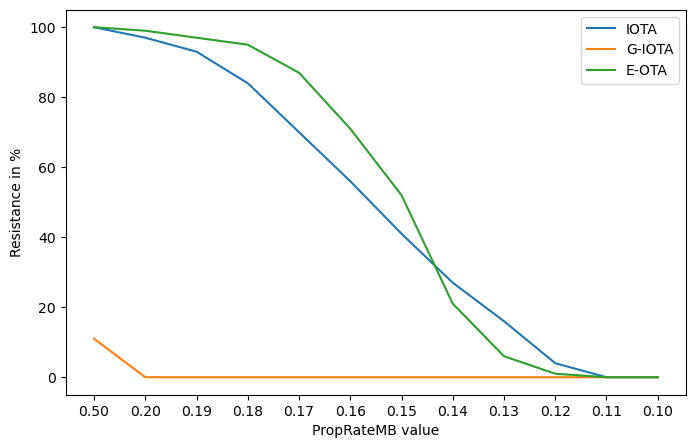
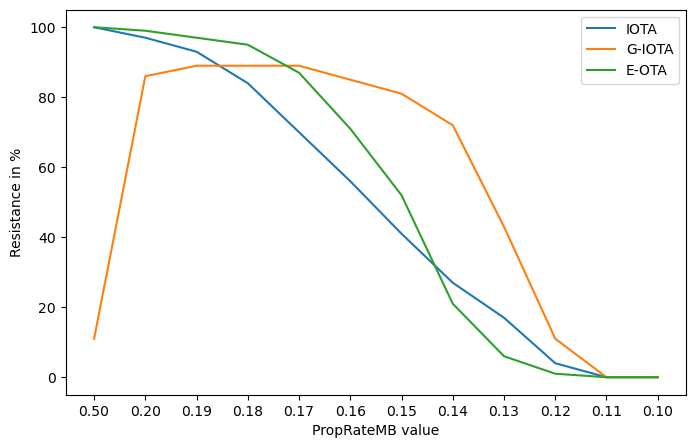
fixed GIOTA SA plot

diff --git a/data/archive/attack/Splitting Attack/plot.py b/data/archive/attack/Splitting Attack/plot.py
@@ -6,7 +6,7 @@ import matplotlib.pyplot as plt
 paths = [r".\data\archive\attack\Splitting Attack\IOTA",r"..\G-IOTA",r"..\E-IOTA"]
 
 res = []
-MaxDiff = 0.9
+MaxDiff = 0.1
 
 for path in paths:
     os.chdir(path)
@@ -55,7 +55,7 @@ for i in range(0,3):
 os.chdir(r"..\.")
 
 temp = np.arange(0.1,0.21,0.01)
-temp = np.append(temp,0.5)
+#temp = np.append(temp,0.5)
 x =  ["%.2f" % n for n in temp]
 
 L.reverse()
